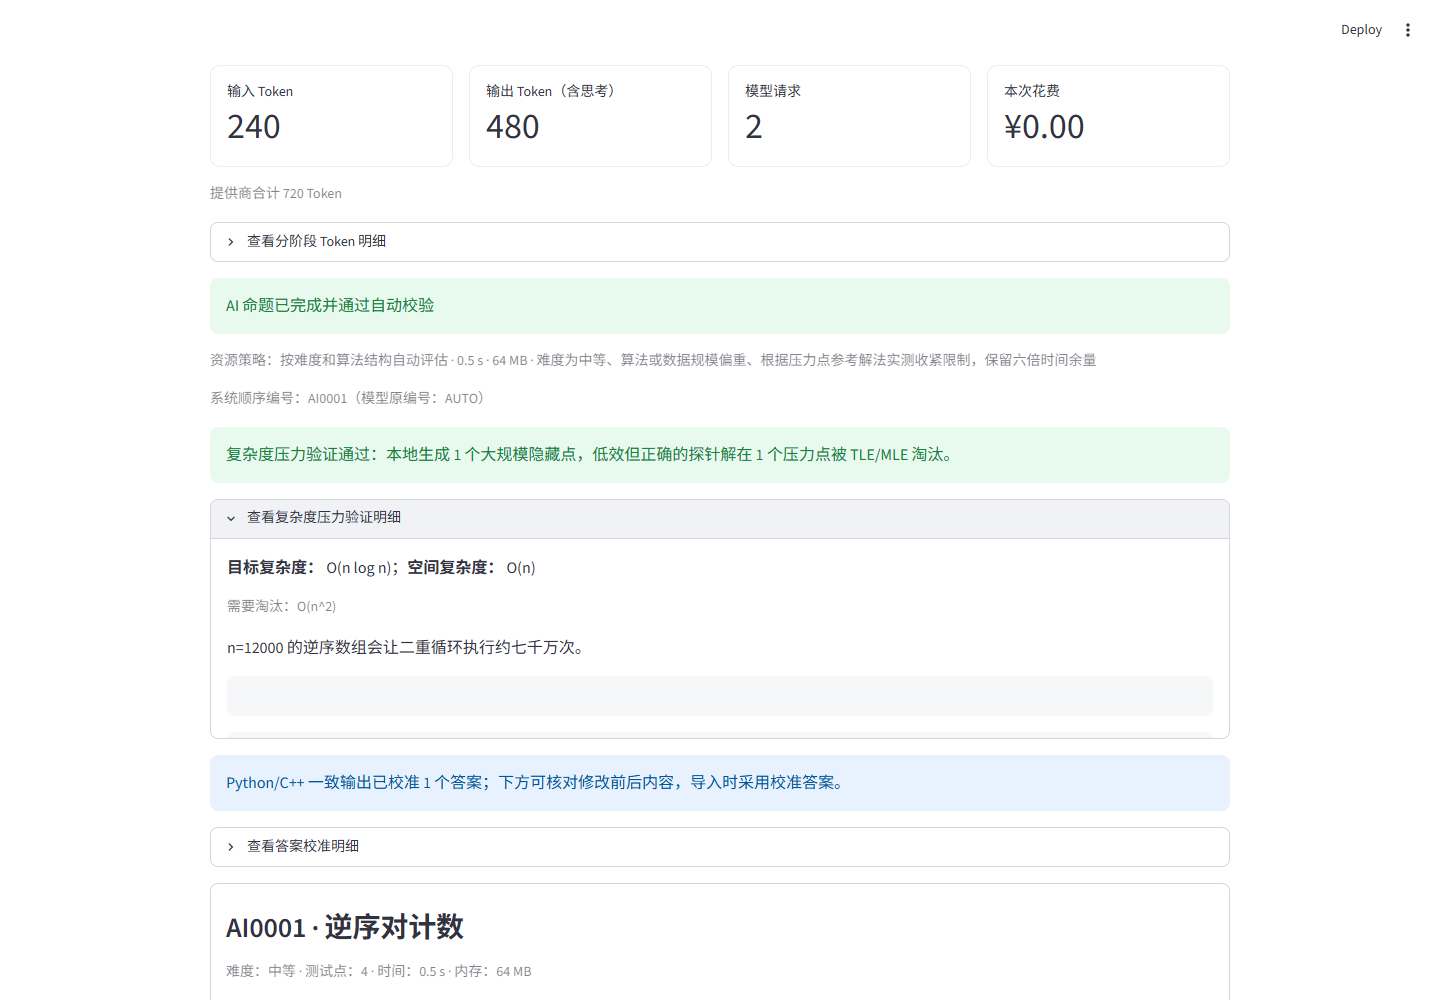
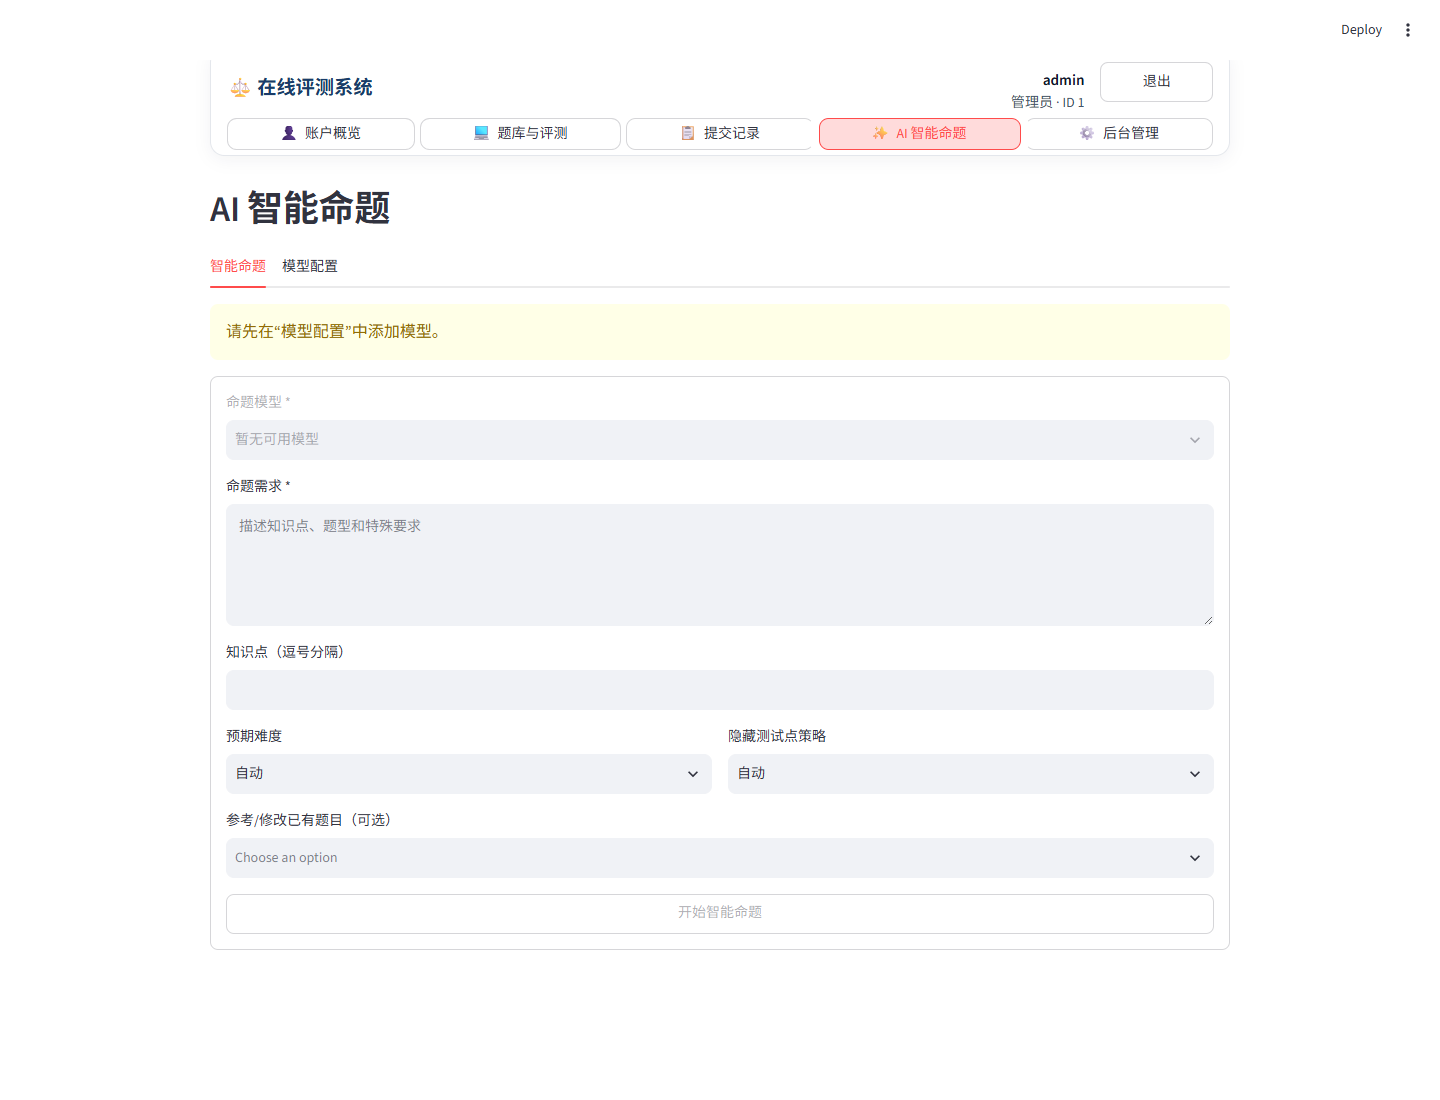
docs: update stable AI generation workflow

diff --git a/docs/demo-checklist.md b/docs/demo-checklist.md
@@ -23,15 +23,11 @@
 7. 普通用户尝试查看他人私有日志得到 403；管理员公开题目日志后再次查看成功。
 8. 管理员打开访问审计，使用用户/题目/结果筛选，展示同一用户的红色拒绝与绿色允许记录。
 9. 在账户中心演示修改密码；管理员再更改用户角色为 banned，展示已有会话和再次登录均被拒绝。
-10. 进入 AI 页面，确认默认打开“智能命题”；选择已保存模型，输入知识点、难度和边界要求，
-    保持“自动”测试点策略，展示分阶段流式输出、请求次数、输入/输出/思考 Token 和人民币费用。
-11. 先创建一项 AI 任务并中断，证明后台实际停止；再用“求斐波那契数列的第 N 项，结果对
-    1000000007 取模，适合练习递推与取模”完成一项任务。确认进度显示双语言交叉运行，预览提示
-    “Python/C++ 一致输出已校准 N 个答案”，展开核对模型原答案和校准答案，且校准本身未增加模型请求。
-    切换 Python 3/C++14 参考解法后载入新增题目表单，确认自动跳转、答案采用校准结果且作者为模型名称。
-12. 再生成一道明确要求淘汰暴力解的中等/困难题，展开“复杂度压力验证明细”：确认显示本地生成的
-    大规模隐藏点、目标/禁止复杂度、正解实测后收紧的资源限制，以及低效探针在压力点的 TLE/MLE；
-    连续生成两题时确认编号为 `AI0001`、`AI0002`。不要把超长压力输入当作公开样例展示。
+10. 进入 AI 页面，确认默认打开“智能命题”；选择已保存模型，将难度设为“自动”，输入知识点和边界要求，
+    保持“自动”测试点策略，展示分阶段输出、输入/输出 Token 和人民币费用。
+11. 用斐波那契需求完成任务，确认双语言共识能校准错误答案；载入新增题目表单后，答案采用校准结果且作者为模型名称。
+12. 分别生成入门题和困难题，确认系统自动选择/保留难度，并给出不同的测试点数量、时间和内存限制；
+    连续生成两题时确认编号为 AI0001、AI0002。
 13. 展示测试结果、Linux CI、架构图和实验报告源文件中的边界测试结果。
 
 ## 备用命令
